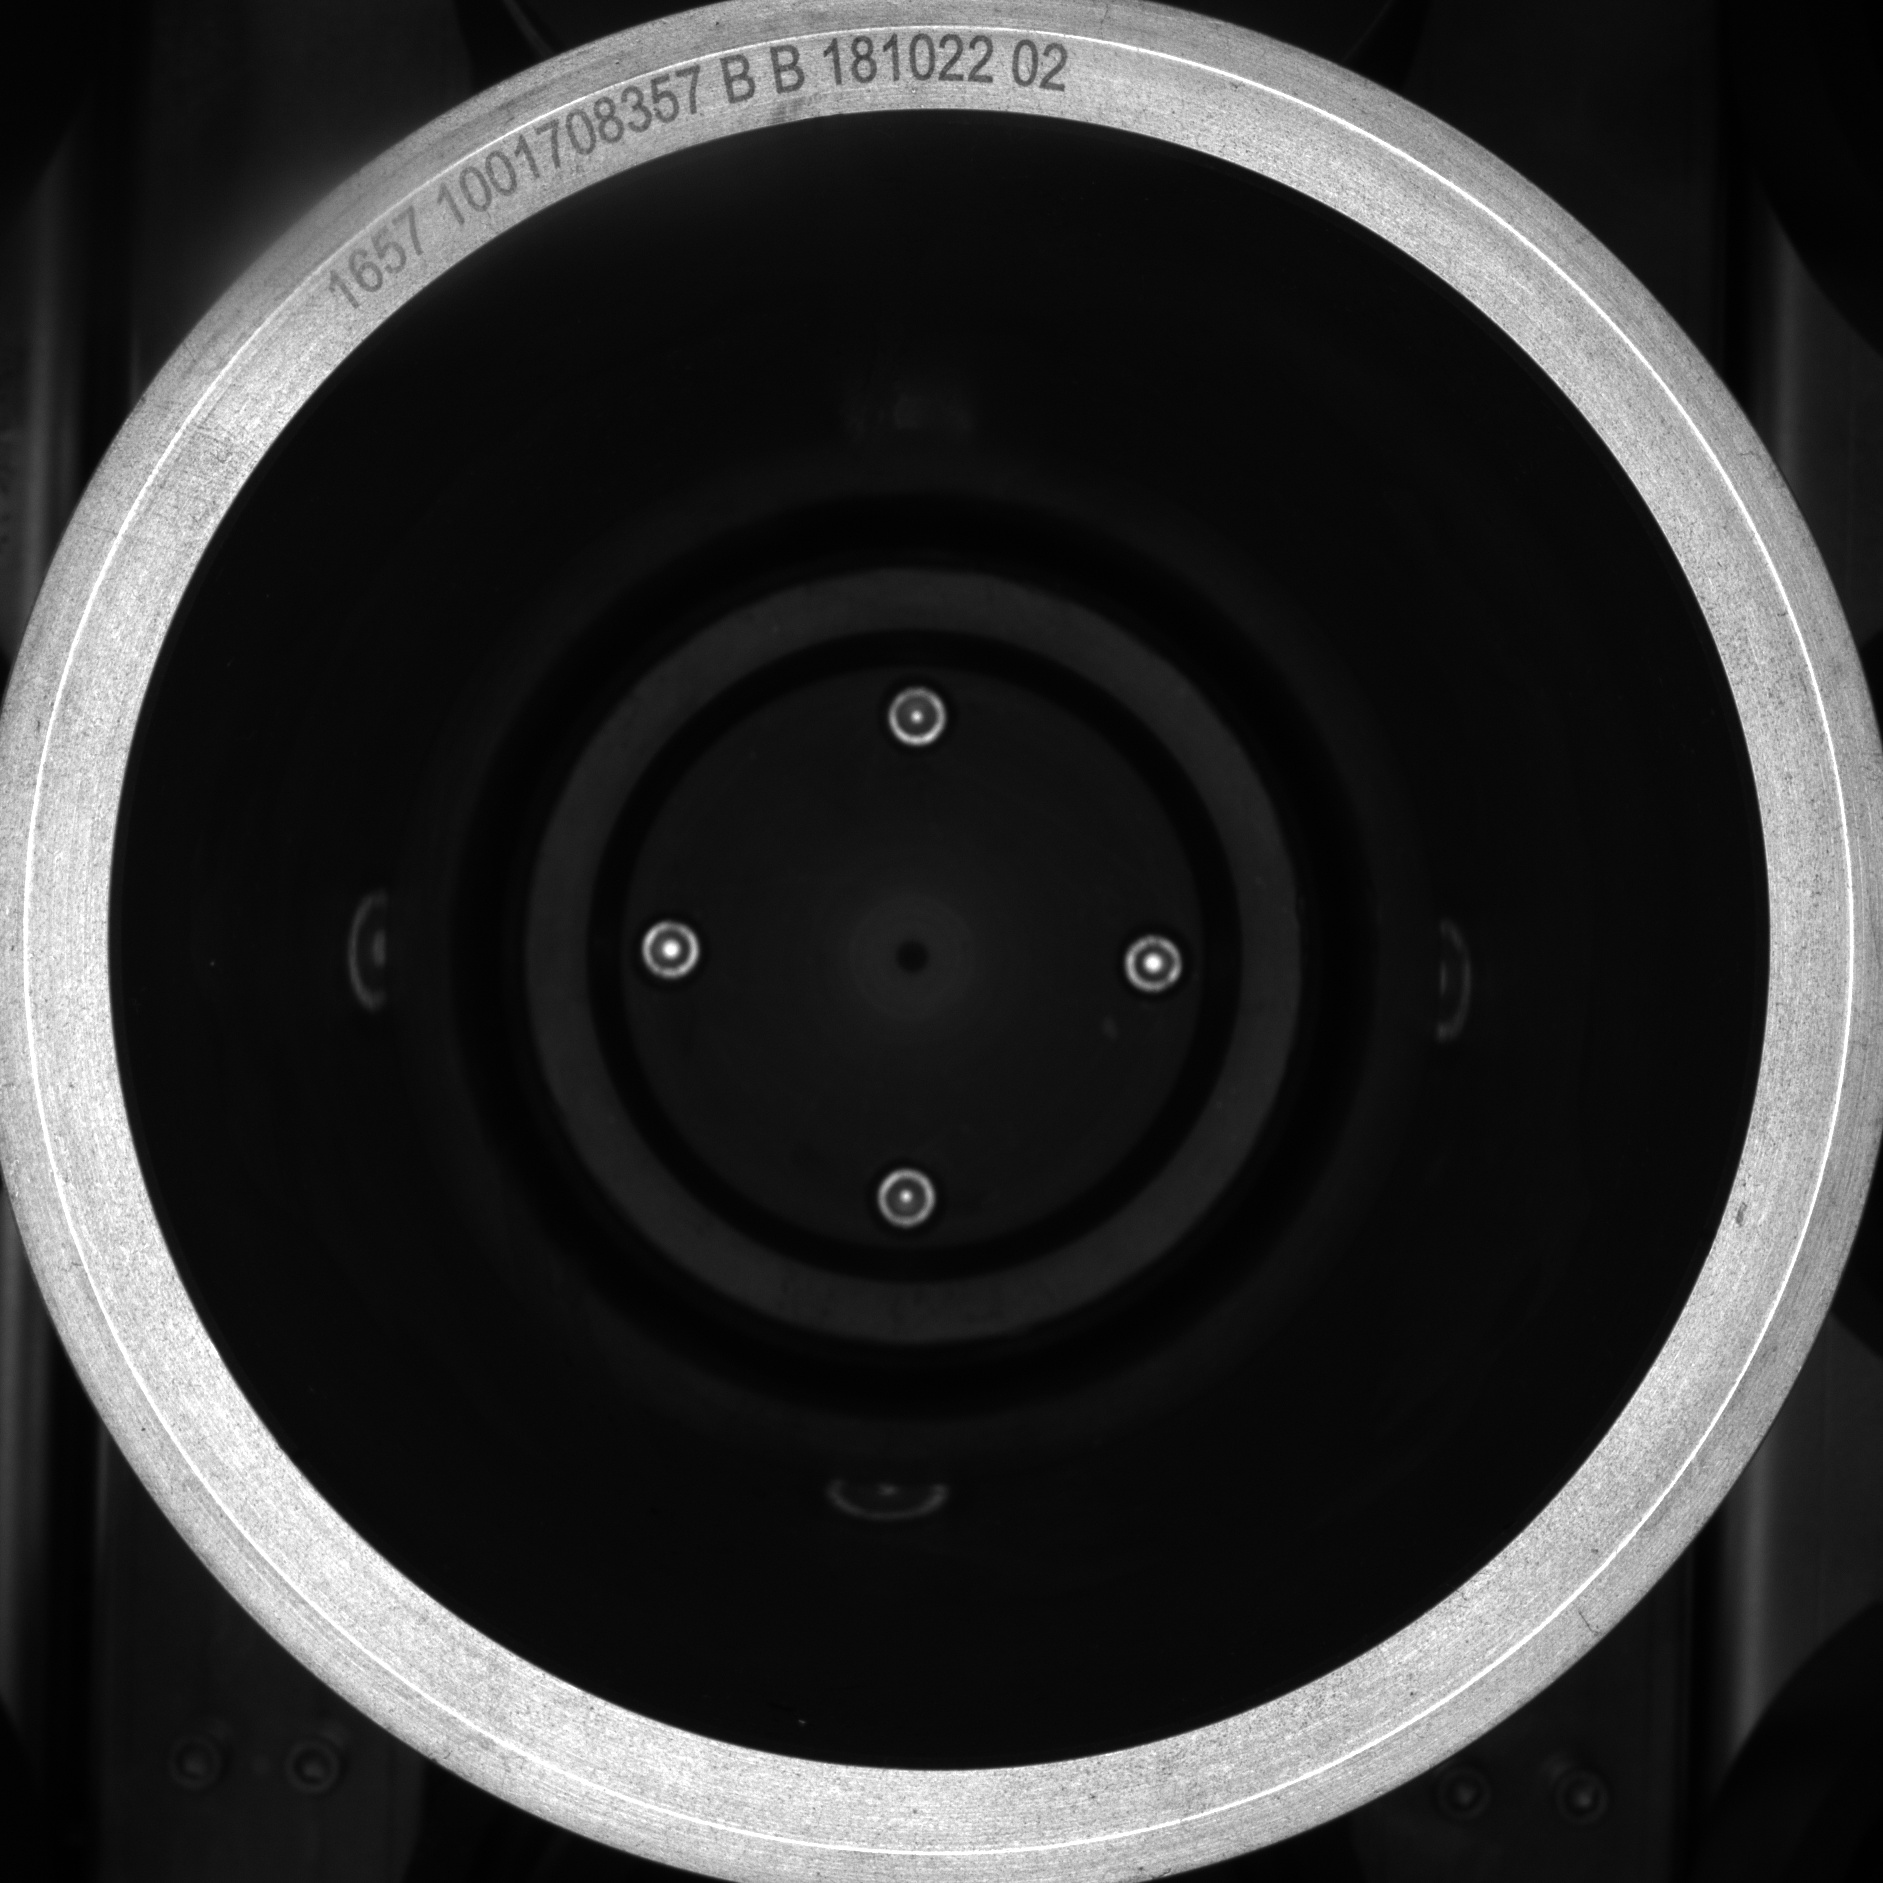
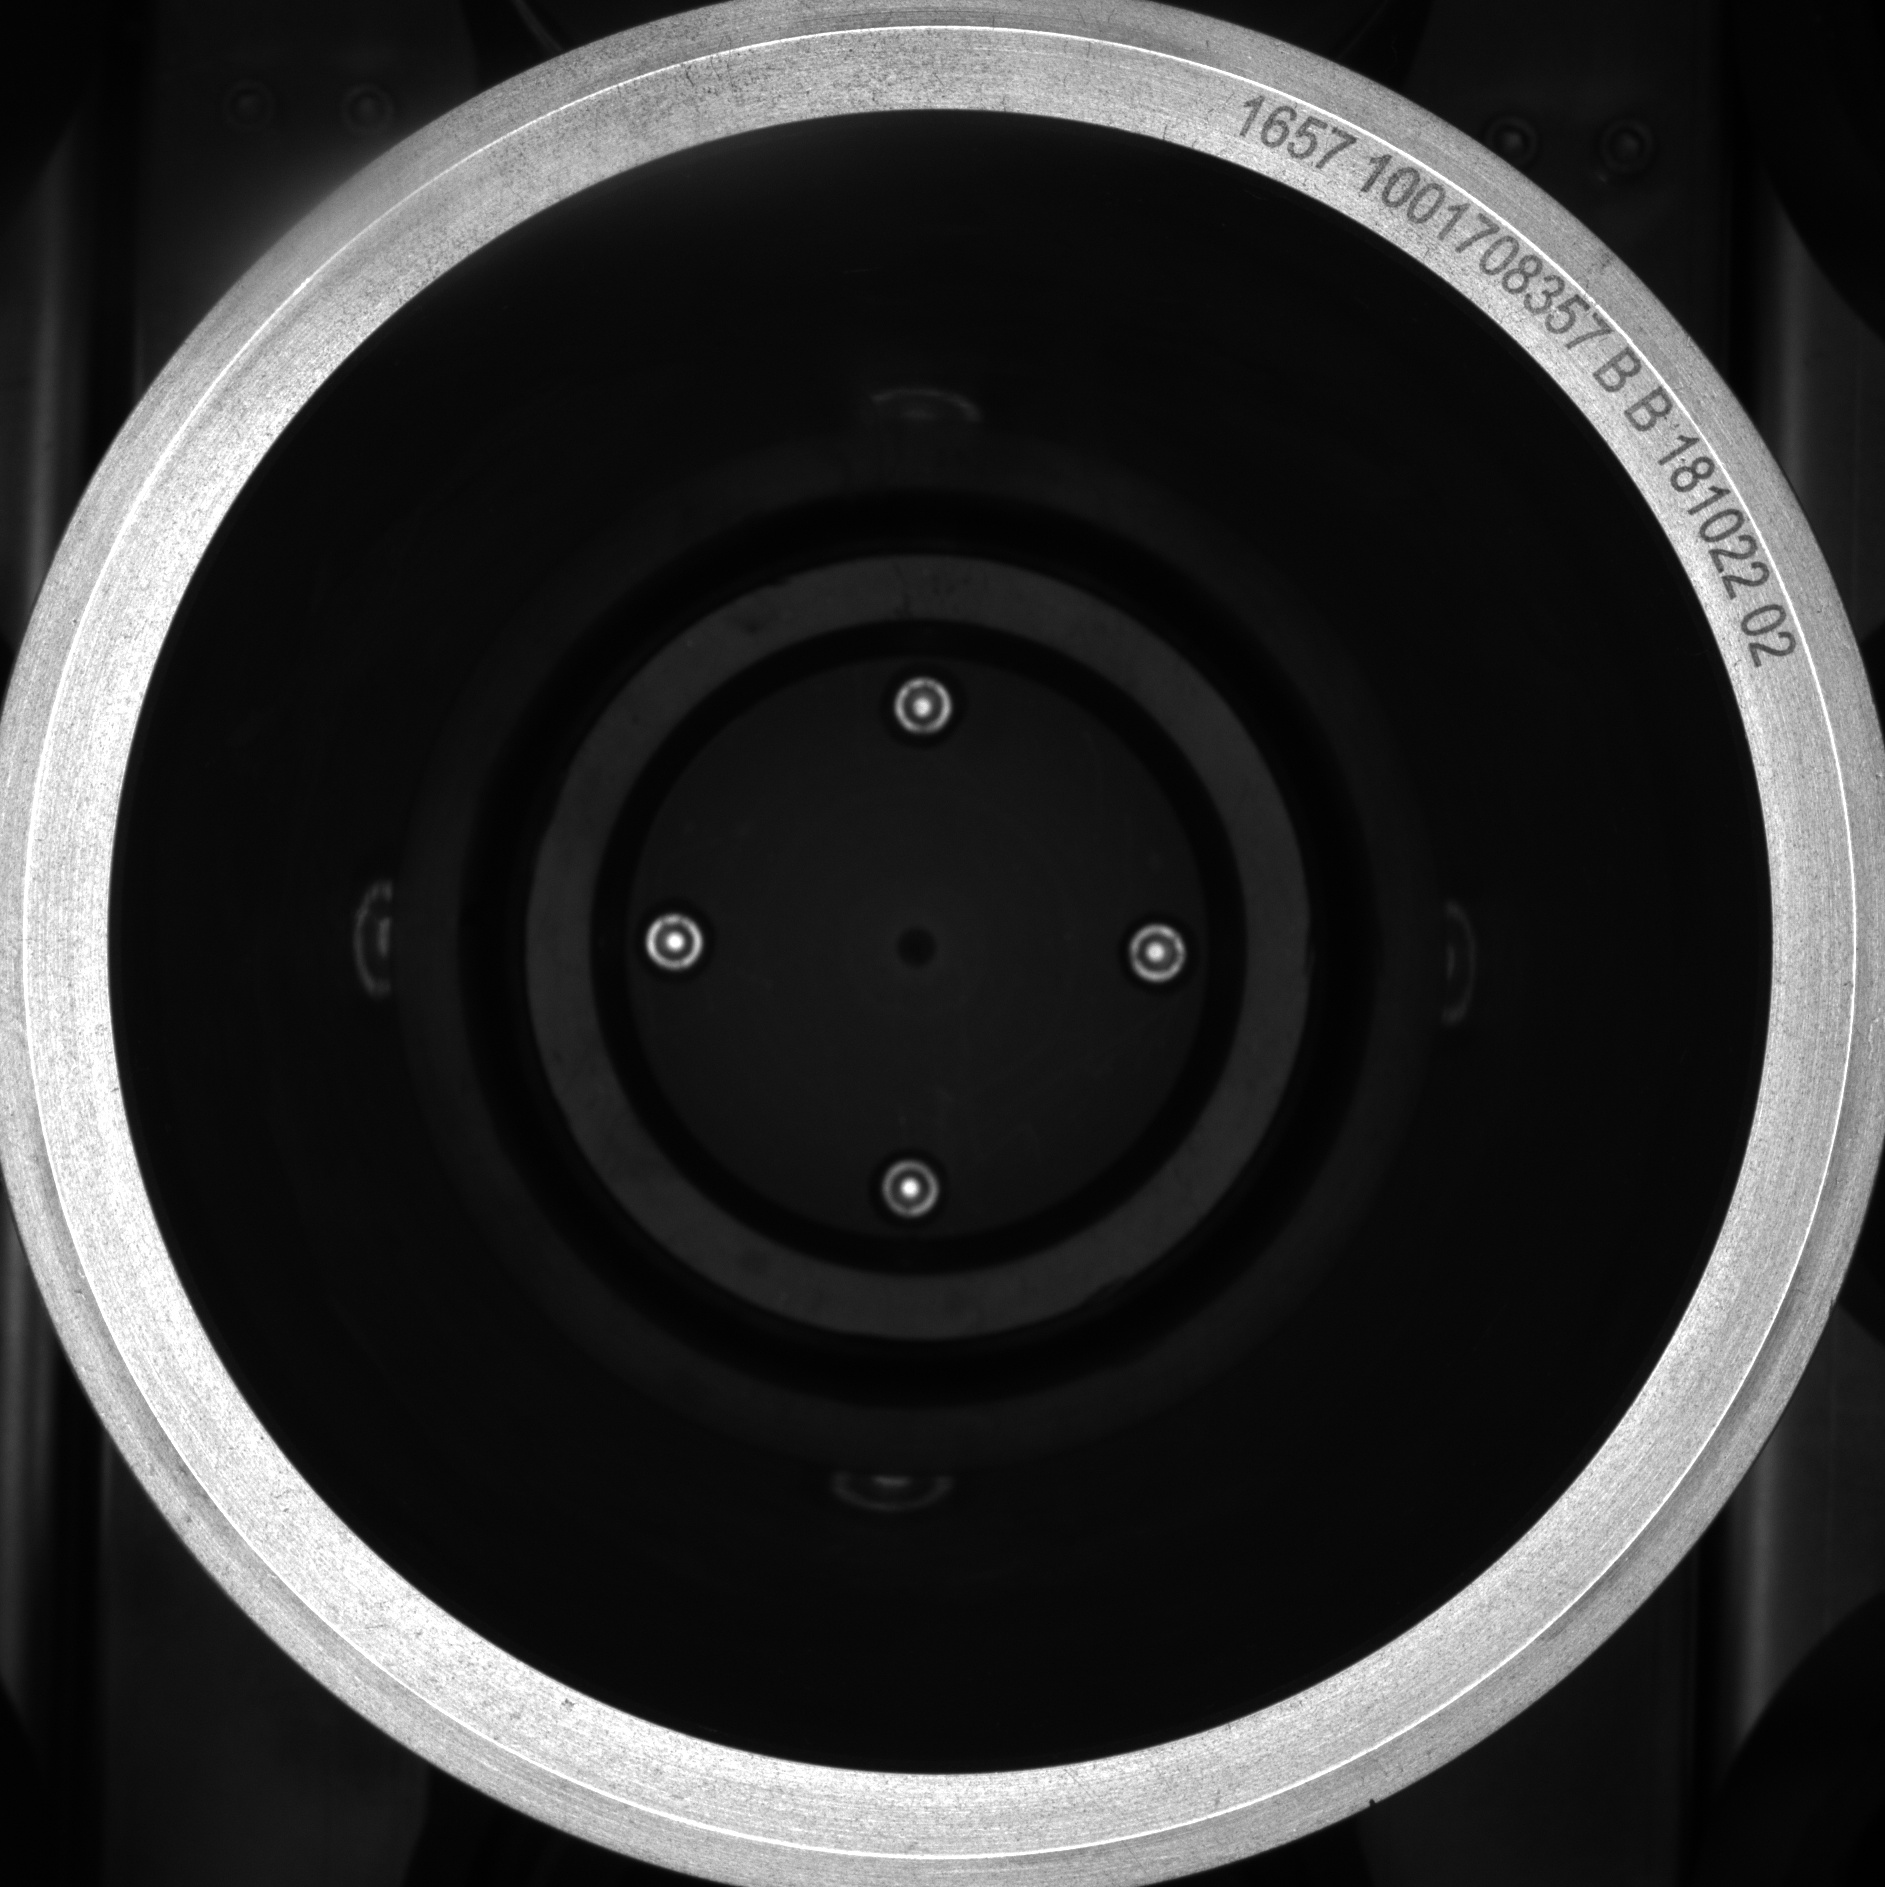
Merge remote-tracking branch 'origin/master'
# Conflicts:
#	pyQt5/检查圆心求出半径/unFloodAfterBinary.jpg

diff --git a/pyQt5/检查圆心求出半径/图形的旋转.py b/pyQt5/检查圆心求出半径/图形的旋转.py
@@ -11,7 +11,7 @@ import cv2
 img1 = cv2.imread('imgSave.jpg', cv2.IMREAD_COLOR)
 print(img1.shape)
 x, y = img1.shape[:2]
-rotate = cv2.getRotationMatrix2D((x / 2, y / 2), 50, 1)
+rotate = cv2.getRotationMatrix2D((x / 2, y / 2), -150, 1)
 res = cv2.warpAffine(img1, rotate, (int( x), int( y)))
 print(res.shape)
 cv2.imshow('img', img1)

diff --git a/pyQt5/检查圆心求出半径/对象（圆）提取.py b/pyQt5/检查圆心求出半径/对象（圆）提取.py
@@ -1,7 +1,7 @@
 import cv2
 import numpy as np
 #读取图片
-src_img=cv2.imread('09_30_13.jpg',cv2.IMREAD_GRAYSCALE)#  circle.png  09_30_13.jpg
+src_img=cv2.imread('09_30_40.jpg',cv2.IMREAD_GRAYSCALE)#  circle.png  09_30_13.jpg
 # src_img=cv2.pyrDown(src_img)
 cv2.imshow('src',src_img)
 #二值化

diff --git a/pyQt5/检查圆心求出半径/tracker二值化1.py b/pyQt5/检查圆心求出半径/tracker二值化1.py
@@ -3,7 +3,7 @@ import cv2
 import cv2
 import numpy as np
 
-img = cv2.imread("aftercutimg.jpg")
+img = cv2.imread("imgSave.jpg")
 img=cv2.cvtColor(img,cv2.COLOR_BGR2GRAY)
 cv2.imshow('img',img)
 cv2.namedWindow('binary',cv2.WINDOW_NORMAL)

diff --git a/pyQt5/检查圆心求出半径/全景展开.py b/pyQt5/检查圆心求出半径/全景展开.py
@@ -19,7 +19,7 @@ def resizeSquare(srcimg):
     cv2.imshow('binary',binary)
 
 
-img = cv2.imread("09_30_40.jpg")
+img = cv2.imread("imgSave.jpg")
 # img=cv2.pyrDown(img)
 # img=cv2.pyrDown(img)
 resizeSquare(img)
